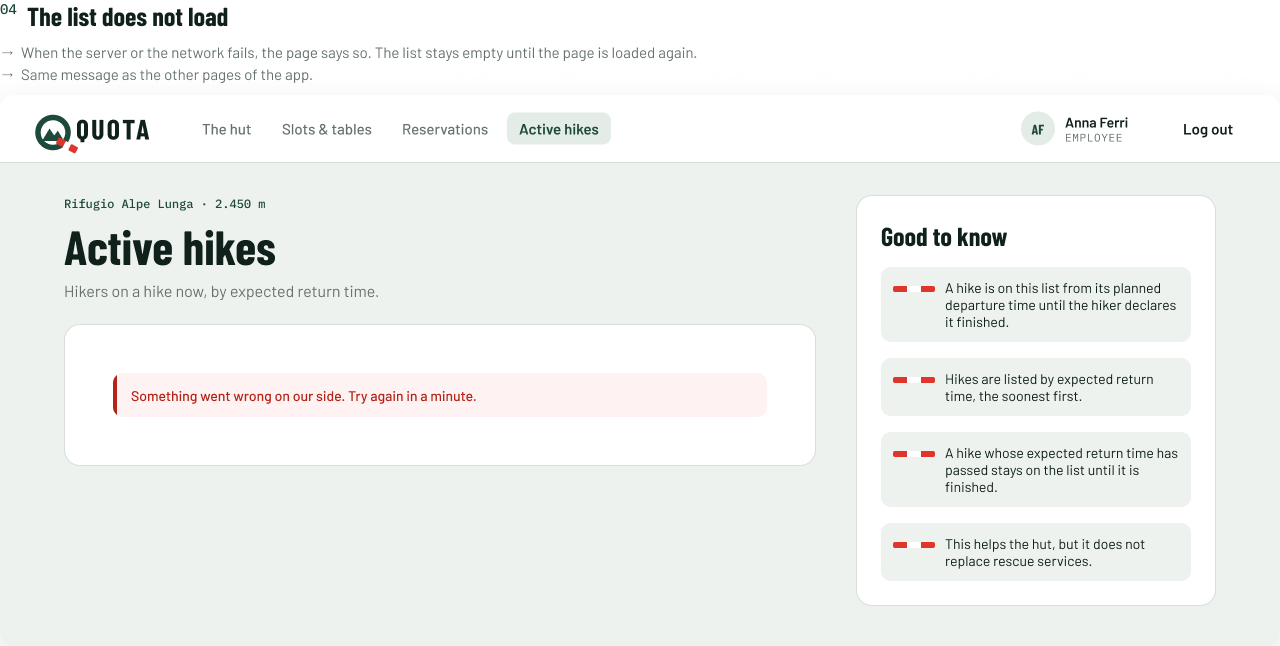
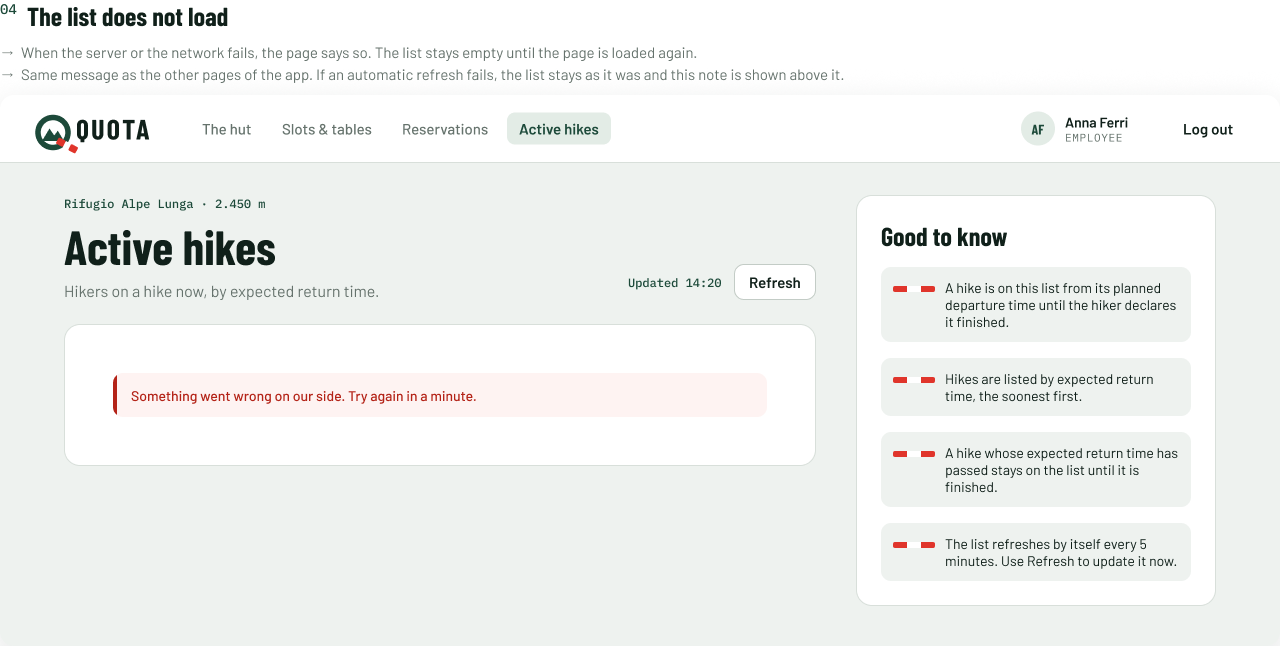
feat: mockup story 21 refresh 5 minutes or with button

Changed region(s): [[0.25, 0.0929, 0.6562, 0.1238], [0.75, 0.8359, 0.9062, 0.8978], [0.5, 0.4334, 0.625, 0.4644]]

diff --git a/docs/mockups/active-hikes/README.md b/docs/mockups/active-hikes/README.md
@@ -26,7 +26,8 @@ Everything shown comes from the story or from the product owner's answers. Nothi
 | Team decision (not yet confirmed by the product owner) | **Active** means: from the planned departure time until the hiker declares the hike finished. A hike that has not started is not listed. A hike past its expected return time stays listed until it is finished. |
 | Team decision (not yet confirmed by the product owner) | The hikes are listed by expected return time, the soonest first. |
 | Team decision (not yet confirmed by the product owner) | Each hike shows the hiker's name, the expected return (time and day), the destination, the route, the departure and the passage points in order. A hike without passage points shows none. |
-| Team decision (not yet confirmed by the product owner) | The page is the same for the employee and for the warden, who can do everything an employee can (same navbar, *Warden*). It is reached from a new navbar link, *Active hikes*, after *Reservations*. |
+| Team decision (not yet confirmed by the product owner) | The warden is an extension of the employee (as on [Slots & tables](../slots/README.md)): the same page, with the same navbar link. The first part only for the warden is MH-25. The page is reached from a new navbar link, *Active hikes*, after *Reservations*. |
+| Team decision (not yet confirmed by the product owner) | The list **refreshes by itself every 5 minutes** and has a **Refresh** button that updates it at once. A line says when it was last updated. A failed refresh keeps the list as it was. |
 | Team decision | The page is read only. Marking a hike as completed by the staff (MH-30), the alerts for late hikers (MH-24, MH-26) and the emergency details (MH-25) are other stories. |
 
 ## The flow
@@ -38,7 +39,7 @@ Everything shown comes from the story or from the product owner's answers. Nothi
 5. A hike with many passage points shows all of them, in a line that wraps. The card grows and nothing is cut (screen 3).
 6. If the list cannot be loaded, a red note says so (screen 4).
 
-There is nothing to press on the page: the cards have no buttons.
+The only button is **Refresh**, next to the time of the last update (*Updated 14:20*). The list also refreshes by itself every 5 minutes, and the time of the update changes with it. If a refresh fails, the list stays as it was and the red note of screen 4 is shown above it. The cards have no buttons.
 
 ## Screens
 
@@ -73,6 +74,7 @@ The list with many passage points and the error are the same as on a computer.
 | Which hikes | The hikes of all hikers that have started (planned departure time passed) and are not finished. |
 | Order | By expected return time, the soonest first. |
 | Count | "*N* hikers on a hike", above the list, on the right. |
+| Refresh | The list loads when the page opens, refreshes by itself every 5 minutes, and **Refresh** updates it at once, whenever the employee wants. Beside the button: "Updated *HH:MM*", the time of the last update. |
 | Expected return | Time (*15:30*) and day (*Sat 17 Jul*). The day is shown also when it is not today. |
 | Hiker | The name of the hiker who registered the hike. |
 | Destination, route | The destination in bold, the route description after it (under it on a phone). |
@@ -85,7 +87,8 @@ The list with many passage points and the error are the same as on a computer.
 | When | What the employee sees |
 |---|---|
 | Page subtitle | Hikers on a hike now, by expected return time. |
-| *Good to know* | A hike is on this list from its planned departure time until the hiker declares it finished. · Hikes are listed by expected return time, the soonest first. · A hike whose expected return time has passed stays on the list until it is finished. · This helps the hut, but it does not replace rescue services. |
+| Refresh | Button **Refresh**; next to it "Updated 14:20". |
+| *Good to know* | A hike is on this list from its planned departure time until the hiker declares it finished. · Hikes are listed by expected return time, the soonest first. · A hike whose expected return time has passed stays on the list until it is finished. · The list refreshes by itself every 5 minutes. Use Refresh to update it now. |
 | No hikes | **No active hikes.** Hikers who are on a hike will appear here, with the time they expect to be back. |
 | List not loaded | Red note: "Something went wrong on our side. Try again in a minute." |
 | Not logged in (`401`) | The login page (login mockup, screen 4). |
@@ -98,18 +101,26 @@ These belong to other stories or were not asked for:
 - The emergency details of a party and the party members (MH-23, MH-25).
 - Marking a hike as completed by the staff and managing registered hikes (MH-30), registering a hike for a hiker (MH-28), updating a hike (MH-27).
 - The route on a map (MH-29).
-- Search, filters and any other way to sort the list.
+- Search, filters and any other way to sort the list (not for now).
 - The hiker's phone number and emergency contact.
 
 ## Open questions
 
 These are for the product owner. Until they are answered, the mockup follows the team decisions above.
 
-- **What an active hike is.** The mockup lists a hike from its planned departure time until the hiker declares it finished (#53), so a hike past its expected return time stays listed. Is this what the staff expect?
+- **What an active hike is.** The mockup lists a hike from its planned departure time until the hiker declares it finished (#53), so a hike past its expected return time stays listed (see the proposal below). Is this what the staff expect?
 - **Late hikes.** Should a hike past its expected return time be marked in the list, before the alerts of MH-24? The mockup does not mark it.
 - **What the employee sees of each hiker.** The mockup shows the name, the destination, the route, the times and the passage points. Does the employee also need the phone number or the number of people (MH-23)?
-- **Refresh.** Does the list refresh by itself (and how often), or is it loaded when the page is opened?
-- **Who sees it.** The employee and the warden see the same page. Is that right?
-- **Hikers with no hike.** The page lists hikes, not hikers: a hiker with two hikes in progress is not possible (two hikes cannot overlap, MH-20), so there is one card per hiker.
+- **Refresh interval.** The team proposes every 5 minutes plus the Refresh button. Is that enough for the staff?
+
+## How "active" can grow with the next stories
+
+Only MH-20 and MH-21 are built in this sprint, so nobody can yet declare a hike finished (MH-22). The team proposes to decide *active* in one place, so the later stories only add to it:
+
+- A hike has a planned departure, an expected return and a **finished** mark that is empty when the hike is registered (it can be a nullable `finished_at`).
+- **Active** = the planned departure time has passed **and** the hike is not finished. The list of this page asks exactly this.
+- MH-22 (the hiker) and MH-30 (the employee) only fill the *finished* mark: the hike leaves the list at the next refresh, and this page does not change.
+- MH-24 and MH-26 look at the same hikes (active, past the expected return time) and add the alerts. MH-27 changes the route or the expected return of a hike: the list shows the new values at the next refresh.
+- With only MH-20 and MH-21, a hike never leaves the list once it has started. For the demo it appears at the first refresh after its departure time, and it stays. The server already has a clock (`server/src/clock.js`) that can be moved in the tests and in the demo, so a hike can be shown starting without waiting.
 
 The names, hikes, days and times of the screens are examples. Sample data (hut, names, dates) is invented for the mockup.
